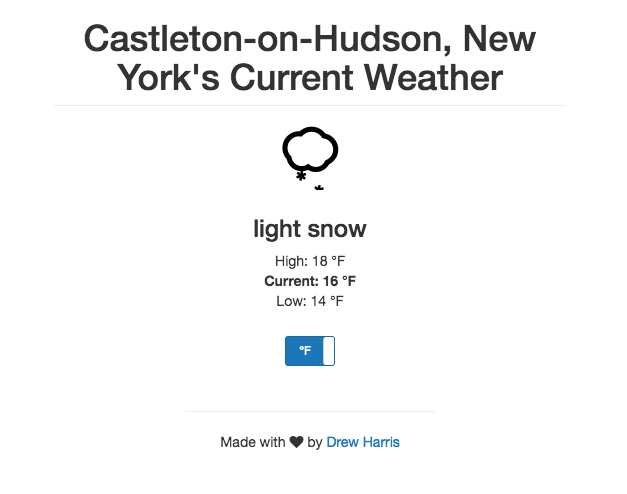
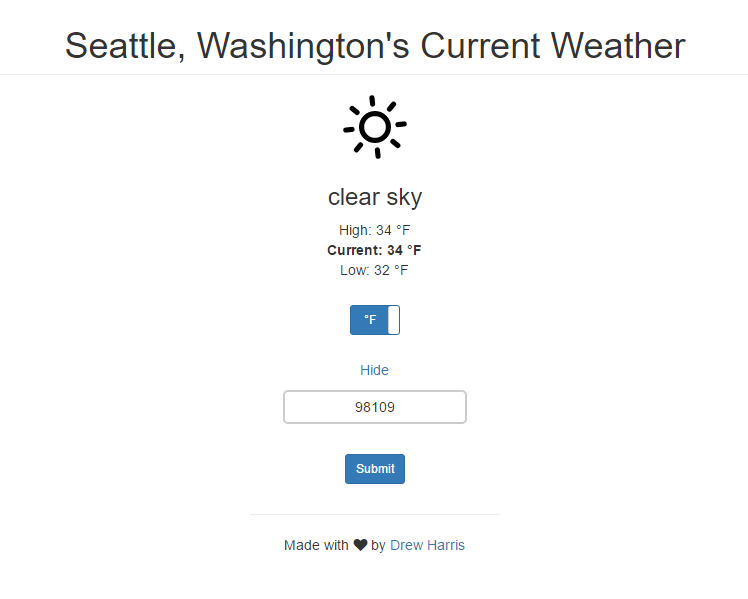
Added the ability to search by a specific zip code

diff --git a/main.js b/main.js
@@ -11,14 +11,11 @@ $(document).ready(function() {
     ,
       success: function(ipapi_response){
         var city = ipapi_response.city;
+        var zip = ipapi_response.postal;
         var state = ipapi_response.region;
         var lon = ipapi_response.longitude;
         var lat = ipapi_response.latitude;
-        var ip = ipapi_response.ip;
         $('#city').text(city + ", " + state + "'s Current Weather");
-        $('#lon').append(lon);
-        $('#lat').append(lat);
-        $('#ip').append(ip);
         getWeatherURL(city, lon, lat);
       },
       error: function(request,status,errorThrown) {
@@ -142,6 +139,63 @@ $(document).ready(function() {
     $('#currentLowTempText').text("Low: " + currentLowTemp + " °C");
     }
 
+  }
+
+// Event Handler to show or hide the change location fields
+  $('#locationFields').on('hide.bs.collapse', function(){
+      $('#showOrHide').text("Change Location");
+    });
+    $('#locationFields').on('show.bs.collapse', function(){
+      $('#showOrHide').text("Hide");
+    });
+
+// Event Handler to get user inputted zip code and trigger function to get inputted weather
+$('#submit').on('click', function(event) {
+  var zipInput = document.getElementById('postal-code').value
+  getInputWeather(zipInput);
+});
+
+// Event Handler to use enter key to submit
+$("#postal-code").keyup(function(event){
+    if(event.keyCode == 13){
+        $("#submit").click();
+    }
+});
+
+
+// Function to get the user's inputted weather
+function getInputWeather(zipInput) {
+  var appID = "8b5e7df6b6cb9a63f665853c2bff00ee";
+  var weatherURL = 'http://api.openweathermap.org/data/2.5/weather?zip=' + zipInput + ',us' + '&units=imperial' + '&appid=' + appID;
+  console.log(weatherURL);
+  getZipLocation(zipInput, weatherURL);
+
+}
+
+//API request to get user's city and state from the inputted zip code
+  function getZipLocation(zipInput, weatherURL) {
+    $.ajax({
+      url: 'http://api.zippopotam.us/us/' + zipInput
+    ,
+      success: function(zippopotam_response){
+        var city = zippopotam_response.places[0]["place name"];
+        console.log("City is " + city);
+        var state = zippopotam_response.places[0].state;
+        console.log("State is " + state);
+        $('#city').text(city + ", " + state + "'s Current Weather");
+        $('#invalid').text("");
+        $('#units').bootstrapToggle('on');
+        $('#locationFields').collapse('hide');
+        getLocalWeather(weatherURL);
+
+      },
+      error: function(request,status,errorThrown) {
+        $('#invalid').text("Please enter a valid zip code");
+        console.log(request);
+        console.log(status);
+        console.log(errorThrown);
+      }
+    });
   }
 
   getLocation();

diff --git a/index.html b/index.html
@@ -15,11 +15,10 @@
     <link rel="stylesheet" href="main.css">
   </head>
   <body>
-    <div id="currentWeatherPane" class="container text-center col-sm-8 col-sm-offset-2">
-      <div class="row col-md-12">
+    <div class="container text-center col-sm-8 col-sm-offset-2">
+      <div id="currentWeatherPane">
         <h1 class="page-header" id="city">Getting your Location...</h1>
-      </div>
-      <div class="row col-md-12">
+      <div class="row col-sm-8 col-sm-offset-2">
         <div id="icons">
           <canvas id="currentWeatherIcon" width="64" height="64">
           </canvas>
@@ -35,26 +34,43 @@
             <span id="currentLowTempText"></span>
           </div>
         </div>
-      <div id="settingsPane" class="row col-md-12">
+      <div id="settingsPane" class="col-sm-8 col-sm-offset-2">
         <div>
           <input id="units" type="checkbox" checked data-toggle="toggle" data-on="°F" data-offstyle="info" data-off="°C" data-size="small" >
         </div>
       </div>
-      <div id="footer"class="row col-md-12">
+      <div id="zipCodeRow" class="col-sm-8 col-sm-offset-2">
+        <div>
+          <a id="showOrHide" href="#locationFields" data-toggle="collapse">Change Location</a>
+        </div>
+        <div id="locationFields" class="collapse">
+          <div>
+            <input class="text-center" id="postal-code" name="postal-code" type="number" placeholder="zip or postal code">
+          </div>
+          <div>
+            <p id="invalid"></p>
+          </div>
+          <div>
+            <button id="submit" class="btn btn-primary btn-sm text-center">Submit</button>
+          </div>
+        </div>
+      </div>
+      <div id="footer"class="col-sm-8 col-sm-offset-2">
         <hr id="smallHR">
         <p class="love">Made with <i class="fa fa-heart"></i> by <a href="https://www.freecodecamp.com/drewcharris" target="_blank"> Drew Harris</p>
       </div>
     </div>
 
 
-
 <!-- jquery CDN link -->
-    <script
-    src="https://code.jquery.com/jquery-2.2.4.min.js"
-    integrity="sha256-BbhdlvQf/xTY9gja0Dq3HiwQF8LaCRTXxZKRutelT44="
-    crossorigin="anonymous"></script>
+<script
+  src="https://code.jquery.com/jquery-3.1.1.min.js"
+  integrity="sha256-hVVnYaiADRTO2PzUGmuLJr8BLUSjGIZsDYGmIJLv2b8="
+  crossorigin="anonymous"></script>
 <!-- Bootstrap Toggle JS -->
 <script src="https://gitcdn.github.io/bootstrap-toggle/2.2.2/js/bootstrap-toggle.min.js"></script>
+<!-- Bootstrap JS-->
+<script src="https://maxcdn.bootstrapcdn.com/bootstrap/3.3.7/js/bootstrap.min.js"></script>
 <!-- JS file link -->
     <script src = "main.js"></script>
   </body>

diff --git a/main.css b/main.css
@@ -9,3 +9,29 @@
   margin-top: 25px;
   margin-bottom: 25px;
 }
+
+#submit{
+  margin: 10px;
+}
+
+#postal-code {
+    margin: 10px;
+
+}
+
+input[type=number] {
+    padding:5px;
+    border:2px solid #ccc;
+    -webkit-border-radius: 5px;
+    border-radius: 5px;
+}
+
+input[type=number]::-webkit-inner-spin-button,
+input[type=number]::-webkit-outer-spin-button {
+  -webkit-appearance: none;
+  margin: 0;
+}
+
+#invalid {
+  color: red;
+}

diff --git a/README.md b/README.md
@@ -1,5 +1,7 @@
 # Local Weather Viewer
 
+## UPDATE: Users can now enter a specific zip code and receive the specified current local weather!
+
 ## Introduction
 
 This is one of the projects required for the Front End Certificate at [Free Code Camp](http://freecodecamp.com). I wanted to use a minimalist design to achieve the objective which can be found [here](https://www.freecodecamp.com/challenges/show-the-local-weather), but the user stories include:
